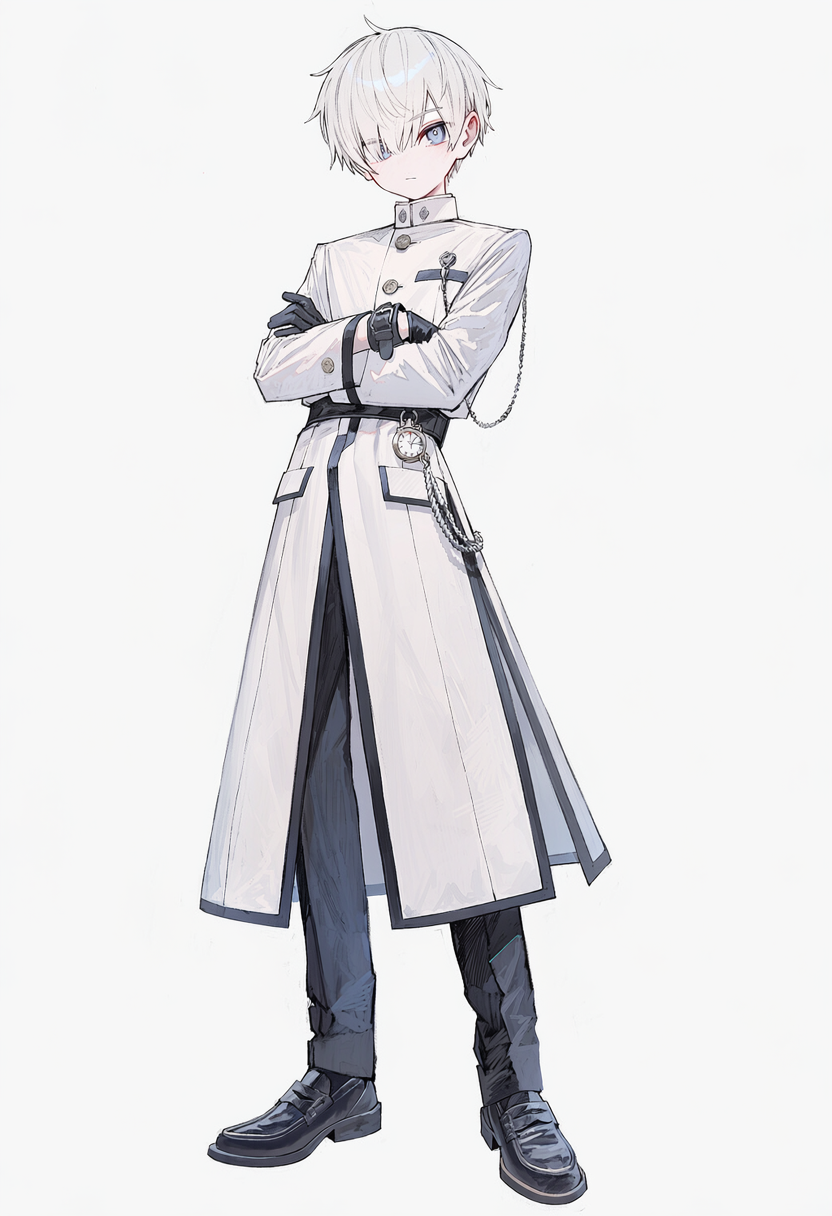
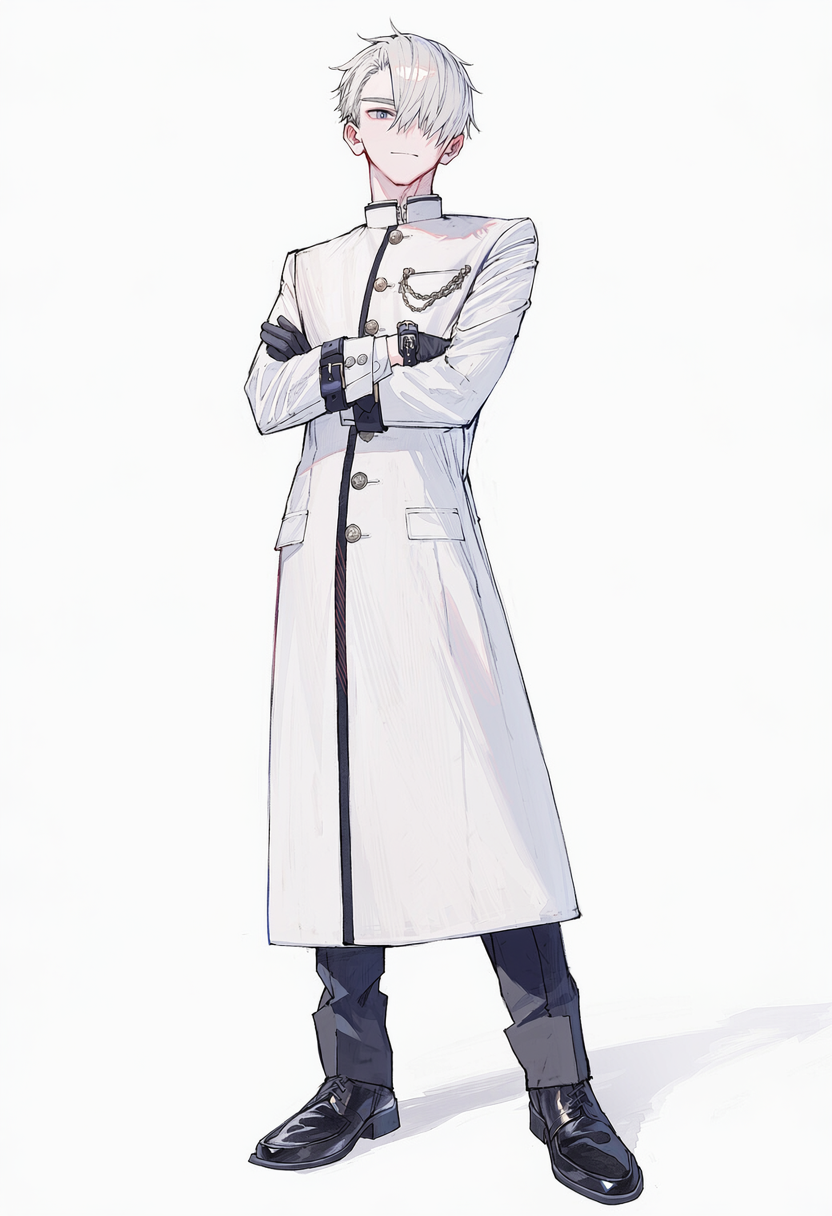
입상 v5 : 미오 단정한 블레이저 교복, 남캐 4명(켄·레이·리쿠·유우) 남성화
- MALE 태그에 남성적 얼굴·턱선, MALE_NEG에 여성적 얼굴·반바지·치마
- 남캐는 여캐용 미형 태그 대신 handsome 계열

Changed region(s): [[0.2188, 0.0, 0.7812, 1.0]]

diff --git a/tools/generate_tpose_nai.py b/tools/generate_tpose_nai.py
@@ -69,21 +69,21 @@ POSE = "standing, full body, front view, looking at viewer, simple background, w
 DROP_FROM_STYLE = ["dynamic angle,", "blurry background,", "depth of field,", "location,"]
 EXTRA_NEGATIVE = "t-pose, arms outstretched, dynamic angle, from above, from below, foreshortening, cropped, out of frame, "
 
-MALE = "male focus, masculine body, broad shoulders, flat chest, narrow hips, long legs"
-MALE_NEG = "androgynous, feminine body, wide hips, curvy, breasts, thick thighs, 1girl, "
+MALE = "male focus, 1.5::masculine face, sharp jawline, adam's apple, thick eyebrows::, masculine body, broad shoulders, flat chest, narrow hips, long legs, short hair"
+MALE_NEG = "androgynous, feminine face, girly, effeminate, makeup, long eyelashes, blush, feminine body, wide hips, curvy, breasts, thick thighs, bare legs, shorts, skirt, 1girl, "
 STAND_NEG = "glasses, eyewear, walking, running, jumping, wind, windblown, "
 NO_STREAK_NEG = "multicolored hair, streaked hair, colored inner hair, gradient hair, colored tips, "
 
 # v4 : 학원 교복을 인물마다 색·형태를 바꿔 개조(단간론파식) · 체형 · 시그니처 포즈 · 머리색 비중복
 CHARACTERS = {
-    "mio": f"1girl, solo, protagonist, slim average height, 1.7::black hair::, glossy short bob, dark blue hair highlights, 1.3::big ahoge::, one long side lock tied with red thread, 1.2::bright amber eyes, determined eyes::, 1.3::black sailor school uniform with red collar lines, red neckerchief::, 1.2::oversized black hoodie jacket over uniform, sleeves past wrists::, black pleated skirt, black thighhighs, 2::small notebook strapped to left wrist with rubber band::, worn pink rabbit keychain with red-stitched ear hanging from zipper, pen behind ear, slight confident smile",
-    "rei": f"1boy, solo, very tall, slender, {MALE}, platinum silver hair, 1.5::long bangs covering right eye, hair over one eye::, cold blue-grey eyes, 1.4::white long gakuran school uniform with black trim and silver buttons, high collar::, black gloves, 1.4::black leather wrist cuffs::, antique pocket watch chain, black trousers, polished boots, aloof cold expression, aristocrat",
+    "mio": f"1girl, solo, protagonist, slim average height, 1.7::black hair::, glossy short bob, dark blue hair highlights, 1.3::big ahoge::, one long side lock tied with red thread, 1.2::bright amber eyes, determined eyes::, 1.5::neat fitted black school blazer with red piping, buttoned, white collared shirt, red ribbon tie::, black pleated skirt, black knee socks, brown loafers, 2::small notebook strapped to left wrist with rubber band::, worn pink rabbit keychain with red-stitched ear on blazer pocket, pen in breast pocket, 1.3::tidy, neat, well-groomed, upright posture::, calm confident smile, main heroine",
+    "rei": f"1boy, solo, very tall, slender, {MALE}, platinum silver hair, 1.5::long bangs covering right eye, hair over one eye::, cold blue-grey eyes, handsome young man, 1.4::white long gakuran school uniform with black trim and silver buttons, high collar::, black gloves, 1.4::black leather wrist cuffs::, antique pocket watch chain, black trousers, polished boots, aloof cold expression, aristocrat",
     "sora": f"1boy, solo, athletic muscular build, {MALE}, spiky sunny golden blonde hair, ahoge, red headband, big bright orange eyes, 1.4::bright orange school blazer with yellow reflective stripes on sleeves, sleeves rolled up::, black t-shirt underneath, black school trousers, red sneakers, carabiner on belt, huge energetic grin",
-    "ken": f"1boy, solo, tall lean, {MALE}, wavy deep wine-red hair swept to one side, half-lidded sharp amber eyes, beauty mark under eye, 1.4::burgundy school blazer with gold piping worn draped over shoulders like a cape::, open-collar black shirt, loose red ribbon tie, white gloves, half theatre mask at belt, black slacks, smirk, theatrical",
+    "ken": f"1boy, solo, tall lean, {MALE}, wavy deep wine-red hair swept to one side, sharp amber eyes, beauty mark under eye, handsome young man, 1.4::burgundy school blazer with gold piping worn draped over shoulders like a cape::, open-collar black shirt, loose red ribbon tie, white gloves, half theatre mask at belt, black slacks, black leather shoes, 1.4::full body, feet visible::, smirk, theatrical",
     "nana": f"1girl, solo, short, slender fragile frame, 1.7::lavender hair, light purple hair::, low side ponytail over shoulder, white hair ribbon, pale violet eyes, pale skin, 1.4::white sailor school uniform with pale lavender collar and long white skirt::, cream knit cardigan, 1.5::white ribbon wrapped like bandage around left wrist::, forget-me-not hairpin, gentle shy smile",
-    "riku": f"1boy, solo, short, slim boyish frame, {MALE}, curly tangerine orange hair, golden cat-like eyes, 1.2::tiny black mini top hat on head::, 1.4::black gakuran school uniform with gold buttons, short red-lined cape::, black bow tie, white gloves, black school shorts with checkered socks, mischievous grin, trickster",
+    "riku": f"1boy, solo, short, slim but masculine frame, {MALE}, curly tangerine orange hair, golden cat-like eyes, 1.2::tiny black mini top hat on head::, 1.4::black gakuran school uniform with gold buttons, short red-lined cape::, black bow tie, white gloves, 1.3::long black school trousers::, checkered cuffs, black shoes, mischievous grin, trickster",
     "akari": f"1girl, solo, average height, neat slim figure, 1.8::auburn hair, chestnut brown hair::, high ponytail with dark green scrunchie, green eyes, 1.4::dark green school blazer with white trim, buttoned neatly::, white shirt, green plaid skirt, white knee socks, brown loafers, 1.4::full body, feet visible::, long sleeves buttoned at wrists, clock-shaped hairpin, 1.3::silver wristwatch::, hourglass charm, serious earnest expression",
-    "yuu": f"1boy, solo, lanky, {MALE}, 1.2::masculine face, defined jaw::, messy bright cyan-teal hair, purple eyes, 1.3::three silver piercings on one ear::, 1.4::big headphones around neck::, 1.4::open navy gakuran school jacket over white band t-shirt::, loose navy trousers, chain wallet, red high-top sneakers, guitar pick necklace, wide friendly grin",
+    "yuu": f"1boy, solo, lanky, {MALE}, messy bright cyan-teal hair, purple eyes, 1.3::three silver piercings on one ear::, 1.4::big headphones around neck::, 1.4::open navy gakuran school jacket over white band t-shirt::, loose navy trousers, chain wallet, red high-top sneakers, guitar pick necklace, wide friendly grin",
     "koto": f"1girl, solo, tall, calm graceful figure, long honey caramel brown hair half-up with flower ornament, gentle light brown eyes, 1.4::classic navy sailor school uniform with long navy skirt::, long beige cardigan, 1.4::red armband on left arm::, small gear-shaped pin, red thread tied on ring finger, kind warm smile, class president",
     "satsuki": f"1girl, solo, tall, toned athletic build, 1.7::dark green hair::, short low ponytail with braided cord, sharp violet eyes, 1.4::khaki military-style school blazer with brass buttons::, black skirt, black tights, laced boots, 1.4::brown leather archery arm guards::, black scarf around neck, feather charm, quiet stern expression",
     "taiga": f"1boy, solo, 1.5::very tall, muscular, athletic, broad shoulders, fit::, {MALE}, short black buzz cut, thick eyebrows, rugged handsome face, earnest eyes, 1.4::black gakuran school uniform unbuttoned, white t-shirt underneath::, black judo belt tied over uniform, athletic tape on fingers, whistle around neck, patrol armband, white sneakers, loud confident grin",
@@ -116,9 +116,9 @@ SIGNATURE = {
 
 # 전원 미형. 일찍 퇴장하는 인물은 한 단계 더(플레이어 애착)
 BEAUTY = "beautiful face, detailed beautiful eyes"
-TOP = "1.3::extremely beautiful face::, sparkling eyes, long eyelashes, striking charm"
+TOP = "1.3::extremely attractive::, sparkling eyes, striking charm"
 TOP_BOY = "bishounen, handsome, "
-HERO = "1.3::striking protagonist presence::"
+HERO = "1.4::striking protagonist presence, beautiful heroine::"
 TOP_SET = {"taiga", "sho", "yuu", "akari", "riku", "sora", "ken"}
 MID_SET = set()
 MID = ""
@@ -145,7 +145,7 @@ def build_prompts(name: str, verbatim: bool, pose: str = None):
     if not verbatim:
         for token in DROP_FROM_STYLE:
             style = style.replace(token, "")
-    tier = "" if name == "lappy" else BEAUTY + ", "
+    tier = "" if name == "lappy" else ("handsome face, detailed eyes, " if name in MALES else BEAUTY + ", ")
     if name in TOP_SET:
         tier += (TOP_BOY if name in MALES else "") + TOP + ", "
     elif name == "mio":
